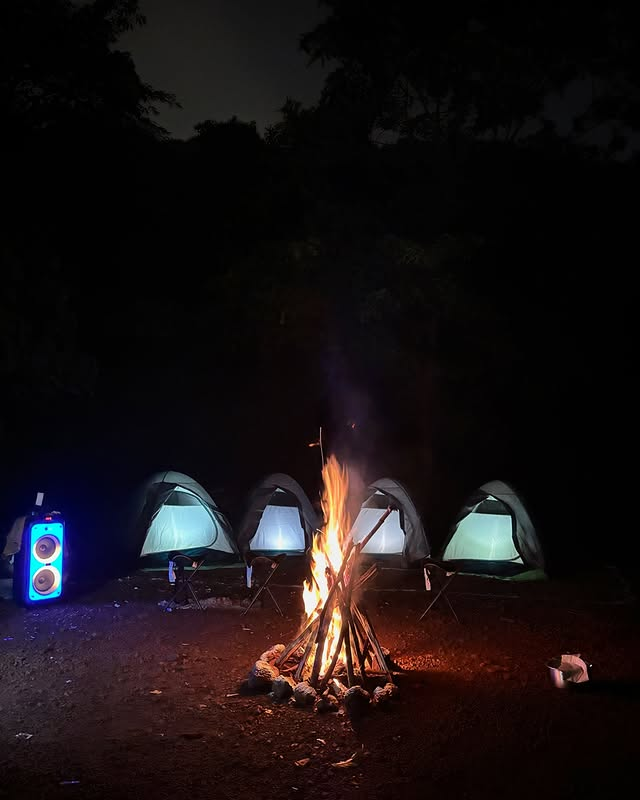
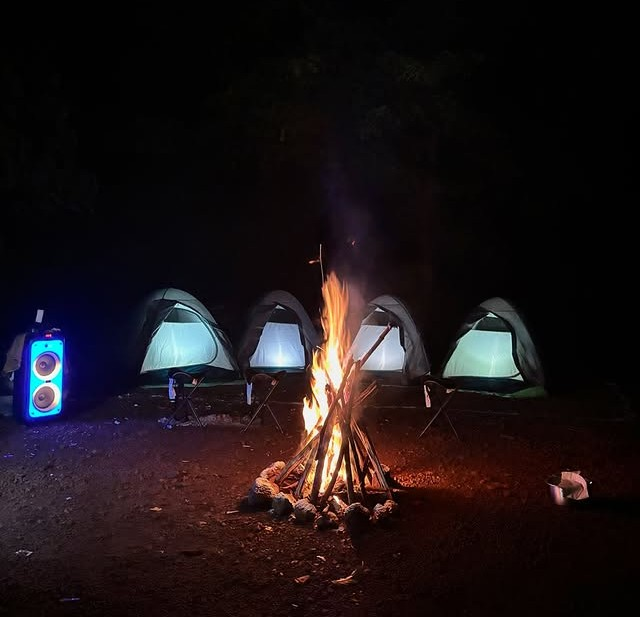
photo updated

diff --git a/index.html b/index.html
@@ -24,7 +24,7 @@ nav{background:rgba(244,239,228,0.96);backdrop-filter:blur(12px);-webkit-backdro
 
 /* HERO */
 .hero{position:relative;min-height:100vh;display:flex;align-items:center;overflow:hidden;background:var(--dk)}
-.hero-bg{position:absolute;inset:0;background:url('IMAGES/heroimage.jpg') center/cover no-repeat;opacity:.4;transform:scale(1.05);animation:heroZoom 20s ease-in-out infinite alternate}
+.hero-bg{position:absolute;inset:0;background:url('IMAGES/tentPhoto.JPEG') center/cover no-repeat;opacity:.4;transform:scale(1.05);animation:heroZoom 20s ease-in-out infinite alternate}
 @keyframes heroZoom{0%{transform:scale(1.05)}100%{transform:scale(1.12)}}
 .hero-grad{position:absolute;inset:0;background:linear-gradient(160deg,rgba(13,31,13,.75) 0%,rgba(13,31,13,.3) 60%,rgba(13,31,13,.6) 100%)}
 .hero-content{position:relative;z-index:2;padding:clamp(2rem,8vw,5rem) clamp(1.5rem,6vw,5rem);max-width:720px;animation:fadeUp .9s ease both}
